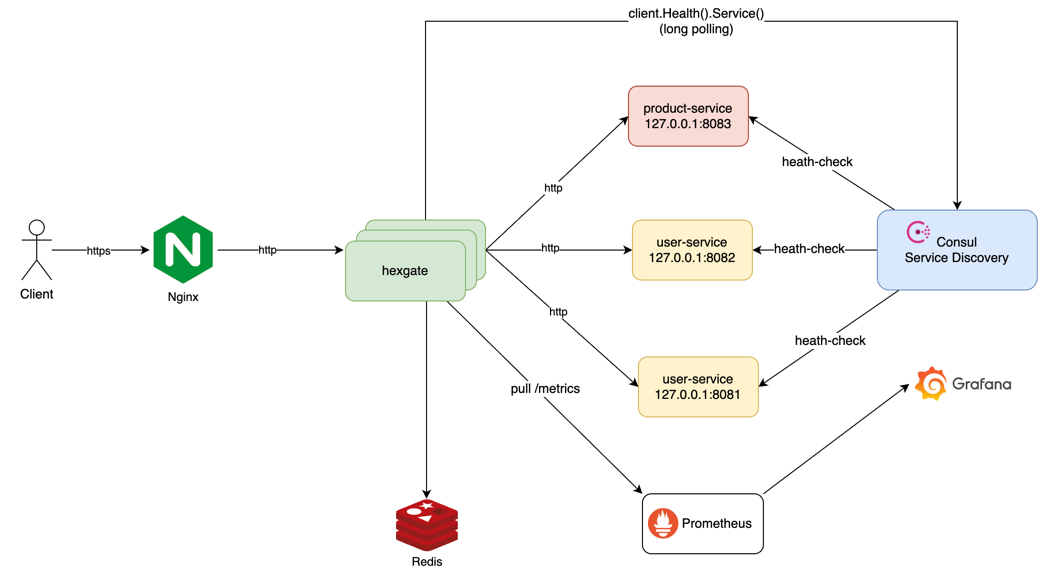
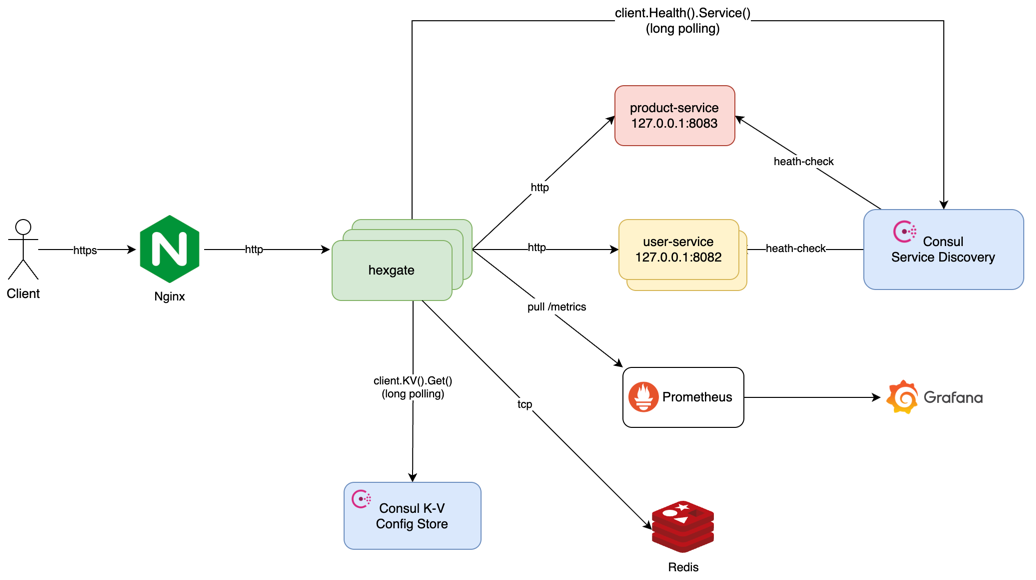
use Consul KV to store config

diff --git a/config.go b/config.go
@@ -2,22 +2,15 @@ package main
 
 import (
 	"fmt"
-	"github.com/fsnotify/fsnotify"
 	"github.com/hashicorp/consul/api"
 	"gopkg.in/yaml.v3"
 	"log"
-	"os"
-	"path/filepath"
 	"sync/atomic"
-	"time"
 )
 
-func loadConfigOnly(configPath string) (*Config, error) {
-	data, err := os.ReadFile(configPath)
-	if err != nil {
-		return nil, fmt.Errorf("could not read config file: %w", err)
-	}
+const consulConfigKey = "hexgate/config"
 
+func parseConfig(data []byte) (*Config, error) {
 	var cfg Config
 	if err := yaml.Unmarshal(data, &cfg); err != nil {
 		return nil, fmt.Errorf("could not parse config YAML: %w", err)
@@ -25,47 +18,61 @@ func loadConfigOnly(configPath string) (*Config, error) {
 	return &cfg, nil
 }
 
-func watchConfig(configPath string, globalRouter *atomic.Value, consulClient *api.Client) {
-	watcher, err := fsnotify.NewWatcher()
+func loadInitialConfigFromConsul(client *api.Client, key string) (*Config, uint64, error) {
+	log.Printf("Loading initial configuration from Consul KV: %s", key)
+	kvPair, _, err := client.KV().Get(key, nil)
 	if err != nil {
-		log.Fatalf("Failed to create file watcher: %v", err)
+		return nil, 0, fmt.Errorf("failed to fetch initial config from Consul: %w", err)
 	}
-	configDir := filepath.Dir(configPath)
-	configName := filepath.Base(configPath)
 
-	go func() {
-		for {
-			select {
-			case event, ok := <-watcher.Events:
-				if !ok {
-					return
-				}
-				if filepath.Base(event.Name) == configName {
-					if event.Has(fsnotify.Write) || event.Has(fsnotify.Create) || event.Has(fsnotify.Rename) {
-						log.Println("Config file modified. Reloading...")
-						time.Sleep(100 * time.Millisecond)
-						newCfg, err := loadConfigOnly(configPath)
-						if err != nil {
-							log.Printf("Error reloading config: %v. Keeping old config.", err)
-							continue
-						}
-						newRouter := buildRouter(newCfg, consulClient)
-						globalRouter.Store(newRouter)
-						log.Println("Hot reload complete. New configuration is active.")
-					}
-				}
-			case err, ok := <-watcher.Errors:
-				if !ok {
-					return
-				}
-				log.Println("File watcher error:", err)
-			}
+	if kvPair == nil {
+		return nil, 0, fmt.Errorf("config key '%s' not found in Consul", key)
+	}
+
+	cfg, err := parseConfig(kvPair.Value)
+	if err != nil {
+		return nil, 0, fmt.Errorf("failed to parse initial config from Consul: %w", err)
+	}
+
+	log.Println("Successfully loaded initial configuration from Consul")
+	return cfg, kvPair.ModifyIndex, nil
+}
+
+func watchConsulConfig(key string, initialIndex uint64, globalRouter *atomic.Value, consulClient *api.Client) {
+	log.Printf("Starting Consul config watcher for key: %s", key)
+	lastIndex := initialIndex
+
+	for {
+		opts := &api.QueryOptions{
+			WaitIndex: lastIndex,
 		}
-	}()
+		kvPair, meta, err := consulClient.KV().Get(key, opts)
+		if err != nil {
+			log.Printf("Error watching Consul config key %s: %v. Retrying in 5s...", key, err)
+			continue
+		}
 
-	err = watcher.Add(configDir)
-	if err != nil {
-		log.Fatalf("Failed to add config directory to watcher: %v", err)
+		if kvPair == nil {
+			log.Printf("Config key '%s' is missing from Consul. Keeping old config.", key)
+			lastIndex = meta.LastIndex
+			continue
+		}
+
+		if kvPair.ModifyIndex == lastIndex {
+			continue
+		}
+
+		log.Println("Configuration change detected in Consul. Reloading...")
+		lastIndex = kvPair.ModifyIndex
+
+		newCfg, err := parseConfig(kvPair.Value)
+		if err != nil {
+			log.Printf("Error reloading config from Consul: %v. Keeping old config.", err)
+			continue
+		}
+
+		newRouter := buildRouter(newCfg, consulClient)
+		globalRouter.Store(newRouter)
+		log.Println("Hot reload from Consul complete. New configuration is active.")
 	}
-	log.Printf("Watching for config changes in directory: %s", configDir)
 }

diff --git a/main.go b/main.go
@@ -190,9 +190,12 @@ func buildRouter(cfg *Config, consulClient *api.Client) *http.ServeMux {
 }
 
 func main() {
-	configPath := "./config/config.yaml"
+	consulClient, err := api.NewClient(api.DefaultConfig())
+	if err != nil {
+		log.Fatalf("Failed to create Consul client: %v", err)
+	}
 
-	cfg, err := loadConfigOnly(configPath)
+	cfg, lastIndex, err := loadInitialConfigFromConsul(consulClient, consulConfigKey)
 	if err != nil {
 		log.Fatalf("Failed to load initial configuration: %v", err)
 	}
@@ -202,16 +205,11 @@ func main() {
 		log.Fatalf("Failed to connect to Redis: %v", err)
 	}
 
-	consulClient, err := api.NewClient(api.DefaultConfig())
-	if err != nil {
-		log.Fatalf("Failed to create Consul client: %v", err)
-	}
-
 	initialRouter := buildRouter(cfg, consulClient)
 	var globalRouter atomic.Value
 	globalRouter.Store(initialRouter)
 
-	go watchConfig(configPath, &globalRouter, consulClient)
+	go watchConsulConfig(consulConfigKey, lastIndex, &globalRouter, consulClient)
 
 	proxyRootHandler := http.HandlerFunc(func(w http.ResponseWriter, r *http.Request) {
 		router := globalRouter.Load().(*http.ServeMux)

diff --git a/README.md b/README.md
@@ -14,11 +14,11 @@ Backends are no longer static; `hexgate` automatically discovers, adds, and remo
 or fail health checks.
 - **Path-Based Routing**: Intelligently routes requests to different backend service pools based on the URL path
 (e.g., /users/* -> user-service, /products/* -> product-service).
-- **Zero-Downtime Hot Reloading**: Automatically detects changes to config.yaml (e.g., new services, auth keys)
 - **JWT Authentication (RS256)**: Secures routes with a secure, asymmetric (RS256) JWT validation middleware.
 - **Distributed Quotas**: Uses Redis with a `Sliding Window` algorithm to enforce shared quotas (e.g., 1000 requests/day) across all gateway instances.
 - **Built-in Observability**: Exposes a `/metrics` endpoint for Prometheus, tracking request rates, latencies, and response codes
 - **TLS/SSL Termination**: Centralized SSL termination at the Nginx load balancer.
+- **Dynamic Configuration (Hot Reload)**: Uses Consul KV as a centralized, dynamic source of truth for all configuration.
 ## Design
 ![](img/architecture.png)
 ## 🚀 Getting Started
@@ -43,7 +43,21 @@ and allow the client to encrypt data. It's safe to share.
 - key.pem (Private Key): This is your server's secret.
 It must never be shared. It's the only thing that can decrypt data sent by clients.
 
-3. Run the full stack
+3. Load Configuration into Consul The gateway no longer reads from config.yaml. You must load this configuration into
+the Consul Key/Value store before starting the stack.
+- Start Consul
+```bash
+docker-compose up -d consul
+```
+- Add the configuration
+  - Open the Consul UI: http://localhost:8500
+  - Click on Key/Value in the top menu.
+  - Click the Create button.
+  - For the Key, enter: hexgate/config
+  - For the Value, copy the entire contents of your local config/config.yaml file and paste it into the text box.
+  - Save
+
+4. Run the full stack
 
 Start all services in `High-Availability` mode (with 2 hexgate instances).
 ```bash
@@ -57,7 +71,7 @@ The service is now running:
 - Grafana: http://localhost:3000 (login: admin / admin)
 - Redis (internal): redis:6379
 
-4. Run the Test Backends
+5. Run the Test Backends
 
 Open 3 new terminals and run the following commands, one in each:
 ```bash
